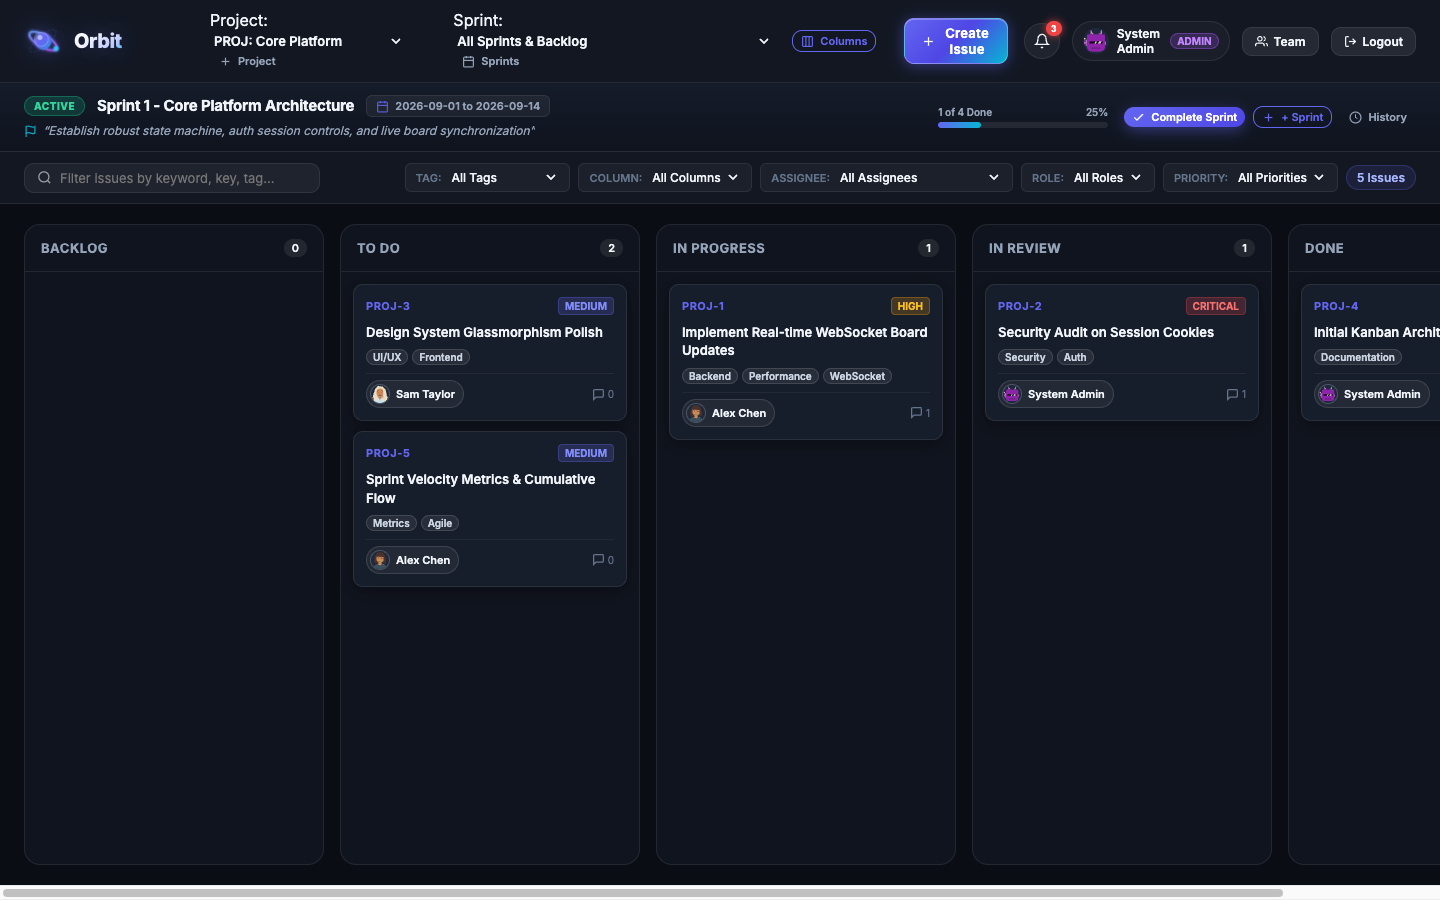
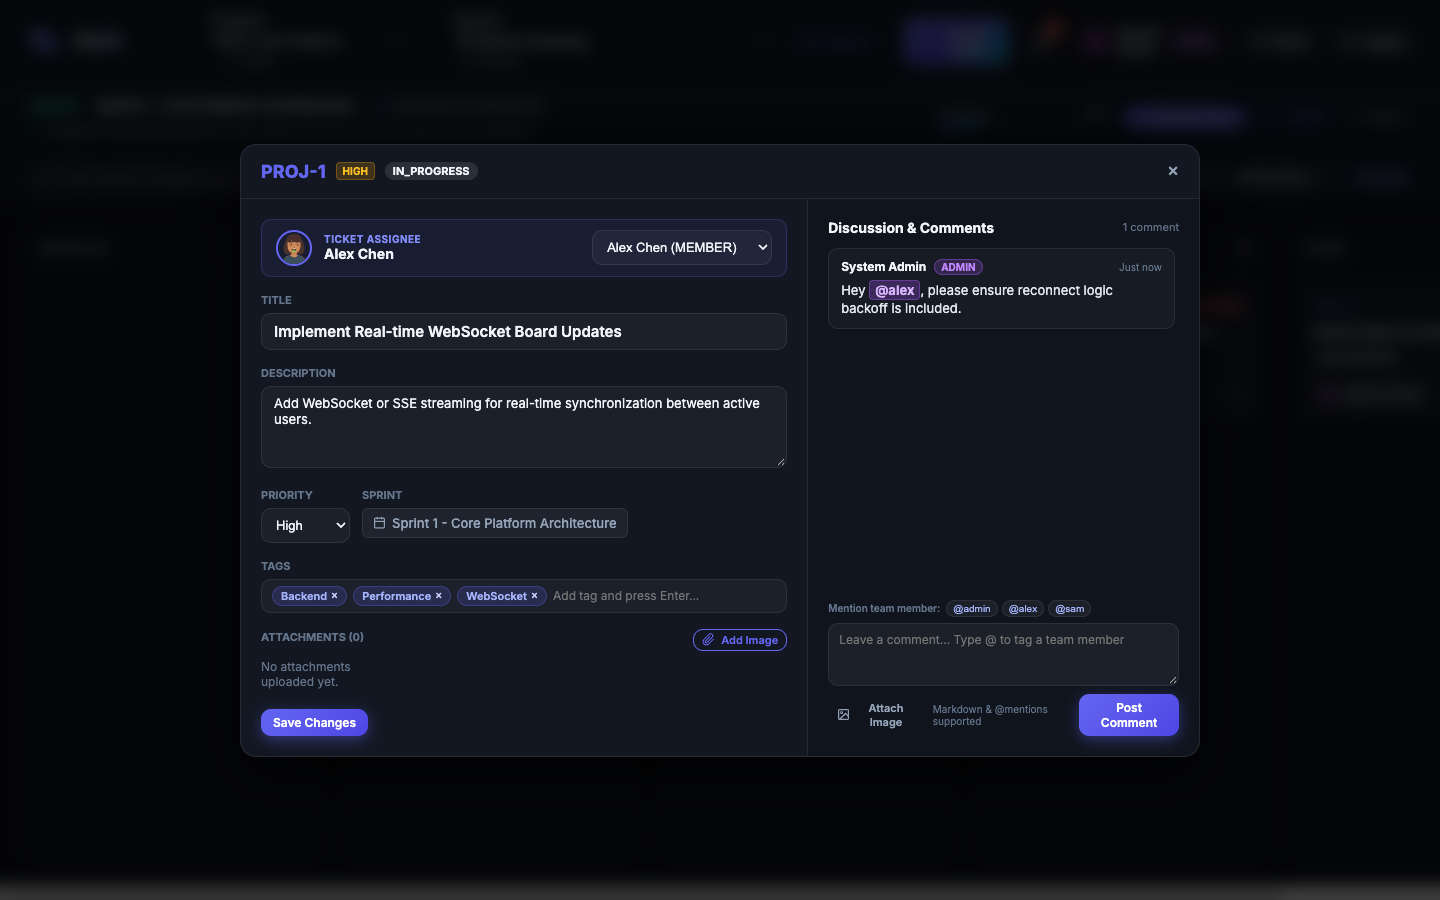
refactor: rebrand as Orbit, implement resilient database initialization, and improve frontend ticket navigation

diff --git a/frontend/app.js b/frontend/app.js
@@ -85,10 +85,13 @@ document.addEventListener('DOMContentLoaded', async () => {
       if (btn) btn.click();
     }, 700);
   } else if (modalParam === 'ticket') {
-    setTimeout(() => {
-      const firstCard = document.querySelector('.kanban-card');
-      if (firstCard) firstCard.click();
-    }, 700);
+    setTimeout(async () => {
+      if (allIssues && allIssues.length > 0) {
+        await openIssueDetail(allIssues[0].id);
+      } else {
+        await openIssueDetail('iss-1');
+      }
+    }, 1000);
   }
 
   // Periodic notification check (every 8 seconds when authenticated)

diff --git a/backend/api/routes.py b/backend/api/routes.py
@@ -14,11 +14,23 @@ from backend.models.domain import (
     Role, Sprint, SprintState, UpdateUserNameRequest, UpdateUserPasswordRequest,
     User, UserCreate, UserLogin
 )
-from backend.services.postgres_repository import PostgresRepository, get_database_url
+import os
+from backend.services.jira_store import OrbitStore, JiraStore
+from backend.services.postgres_repository import PostgresRepository
 from backend.services.state_machine import InvalidTransitionError
 
 router = APIRouter(prefix="/api")
-store = PostgresRepository()
+
+def _init_store():
+    db_url = os.getenv("DATABASE_URL") or os.getenv("POSTGRES_DATABASE_URL") or os.getenv("POSTGRES_URL")
+    if db_url:
+        try:
+            return PostgresRepository(db_url)
+        except Exception:
+            return OrbitStore()
+    return OrbitStore()
+
+store = _init_store()
 
 frontend_uploads_dir = Path(__file__).resolve().parent.parent.parent / "frontend" / "uploads"
 frontend_uploads_dir.mkdir(parents=True, exist_ok=True)

diff --git a/backend/api/app.py b/backend/api/app.py
@@ -10,7 +10,10 @@ from backend.services.postgres_repository import get_database_url
 
 app = FastAPI(title="Orbit API", version="1.0.0")
 
-app.state.database_url = get_database_url()
+try:
+    app.state.database_url = get_database_url()
+except Exception:
+    app.state.database_url = None
 
 app.add_middleware(
     CORSMiddleware,

diff --git a/tests/test_playwright_smoke.py b/tests/test_playwright_smoke.py
@@ -1,3 +1,5 @@
+import pytest
+pytest.importorskip("playwright")
 from playwright.sync_api import sync_playwright
 
 

diff --git a/README.md b/README.md
@@ -1,26 +1,62 @@
-# JiraPlatform: Agile Project Management & Kanban Tracker
+# Orbit: Enterprise Agile Project Management & Kanban Platform
 
-JiraPlatform is a modern, high-performance agile project management system and issue tracker featuring dynamic Kanban boards, sprint backlogs, state machine transition guards, and LexoRank fractional indexing.
+Orbit is a modern, high-performance agile project management system and issue tracker featuring dynamic Kanban boards, multiple sprint backlogs, state machine transition guards, and LexoRank fractional indexing.
 
 The repository is natively integrated with the **AgentGraph** autonomous orchestration harness, pairing isolated Git worktrees with deterministic compiler verification gates and offline Markdown memory consolidation ("dreaming").
 
 ---
 
+## 🖥 User Interface Showcase
+
+### Home Page (Main Dashboard & Sprint Kanban Board)
+The central workspace displays project health, active sprint progress metrics, multi-project switching, and dynamic Kanban column lanes.
+
+![Orbit Main Dashboard](docs/images/orbit-home-dashboard.png)
+*Figure 1: Orbit main dashboard featuring active sprint progress tracking, multi-column Kanban lanes, filter controls, and LexoRank card positioning.*
+
+---
+
+### Login Page (User Authentication Screen)
+Dedicated authentication view supporting role-based access control (`ADMIN`, `MEMBER`, `VIEWER`), session validation, and immediate invalidation on logout.
+
+![Orbit Login Screen](docs/images/orbit-login-page.png)
+*Figure 2: Orbit sign-in screen featuring glassmorphic styling, animated planetary SVG branding, and quick credential switching.*
+
+---
+
+### Ticket View (Individual Issue Details & Discussion)
+Deep dive into issue specifications with status tracking, sprint assignment, file attachments, and threaded team discussions with `@mention` notifications.
+
+![Orbit Ticket View](docs/images/orbit-ticket-view.png)
+*Figure 3: Detailed ticket view displaying metadata attributes, file attachment manager, and team discussion thread with inline user tagging.*
+
+---
+
+### Create Issue Screen (Issue Formulation Modal)
+Fast issue formulation supporting project and sprint routing, initial status selection, priority ranking, customizable tags, and drag-and-drop asset attachments.
+
+![Orbit Create Issue Modal](docs/images/orbit-create-issue.png)
+*Figure 4: Create Issue modal providing structured inputs for ticket summary, acceptance criteria, priority, assignees, and attachment uploads.*
+
+---
+
 ## 🚀 Key Features
 
-- **Agile Kanban Board**: Visual drag-and-drop column lanes (`Backlog`, `To Do`, `In Progress`, `Code Review`, `Done`).
+- **Agile Kanban Board**: Visual drag-and-drop column lanes (`Backlog`, `To Do`, `In Progress`, `Code Review`, `Done`) with dynamic custom column support.
+- **Sprint Management**: Multi-sprint planning cycles with real-time completion percentages, capacity tracking, and sprint history logs.
 - **Issue Tracking & Keys**: Auto-incrementing project issue keys (e.g. `PROJ-1`, `PROJ-2`).
 - **Deterministic State Machine**: Strictly validates issue status transitions and automatically manages `resolved_at` timestamps.
 - **LexoRank Fractional Indexing**: Instant, collision-free card re-ordering without expensive batch updates.
-- **Sprint Management**: Sprint planning cycles with capacity and completion analytics.
-- **AgentGraph Harness Embedded**: Native multi-agent DAGs (`workflows/`), memory storage (`.memory/`), and deterministic exit-code-0 verification gates (`GEMINI.md`).
+- **Role-Based Access Control (RBAC)**: Strict role hierarchy (`ADMIN`, `MEMBER`, `VIEWER`) guarding board management, sprint operations, and role assignments.
+- **Team Discussions & Mentions**: Markdown comments, image attachments, and instant notification alerts.
+- **AgentGraph Harness Embedded**: Native multi-agent DAGs (`workflows/`), persistent markdown memory (`.memory/`), and deterministic exit-code-0 verification gates (`GEMINI.md`).
 
 ---
 
 ## 🛠 Tech Stack
 
-- **Backend**: Python 3.9+ with FastAPI, PostgreSQL-ready persistence adapter, and Pydantic; the repository supports a Postgres `DATABASE_URL`
-- **Frontend**: Glassmorphic dark-mode web application.
+- **Backend**: Python 3.9+ with FastAPI, Pydantic, and SQLite/PostgreSQL persistence adapters.
+- **Frontend**: Glassmorphic dark-mode web application built with Vanilla HTML/CSS/JavaScript and Google Fonts.
 - **Autonomous Engine**: AgentGraph (DAG scheduler, Git worktrees, pristine verifier, dreaming engine).
 - **Testing**: Pytest suites with strict binary verification gates.
 
@@ -39,6 +75,23 @@ pytest tests/ -v
 
 # Start the application
 python -m uvicorn backend.api.app:app --port 8000 --reload
+```
+
+Open [http://127.0.0.1:8000](http://127.0.0.1:8000) in your browser to access the Orbit workspace.
+
+---
+
+## 🧠 Semantic Memory & AgentGraph Integration
+
+Orbit maintains version-controlled operational knowledge and architectural invariants inside [.memory/](file:///.memory/):
+- [architecture.md](.memory/architecture.md): System invariants, state machine transition rules, RBAC boundaries, and session contracts.
+- [conventions.md](.memory/conventions.md): Engineering standards, type hinting requirements, and testing conventions.
+- [failure-patterns.md](.memory/failure-patterns.md): Cataloged regression rules and verified edge-case fixes maintained by the Dreaming Engine.
+- [decisions/](.memory/decisions/): Architecture Decision Records (ADRs).
+
+Execute offline memory dreaming consolidation:
+```bash
+python -m src.cli dream --trace-dir .logs/sessions --memory-dir .memory
 ```
 
 ---
